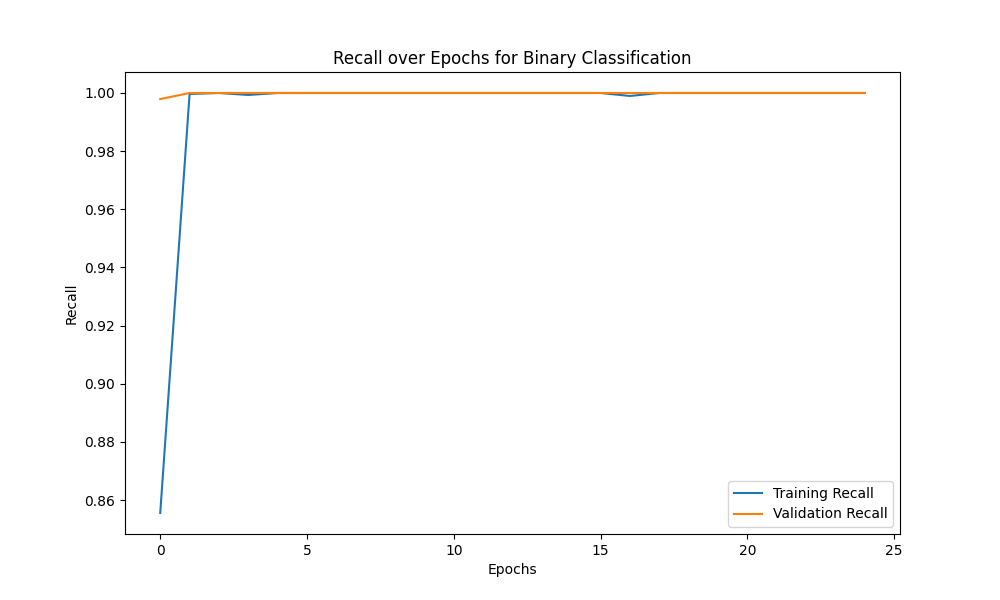
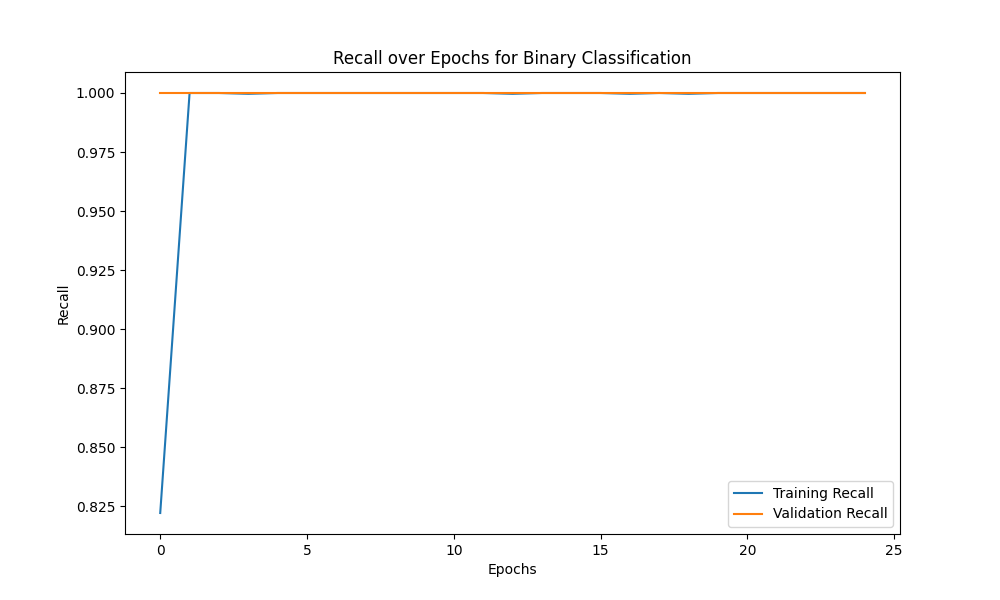
updated RNN layer to match input layer width

diff --git a/ML-SAST/mlsast/logic/steps/distance.py b/ML-SAST/mlsast/logic/steps/distance.py
@@ -172,7 +172,7 @@ class distance(AnalysisStep):
         # ])
 
         input_layer = Input(shape=(76, 1))
-        x = SimpleRNN(64, activation='relu', return_sequences=True)(input_layer)
+        x = SimpleRNN(76, activation='relu', return_sequences=True)(input_layer)
         # x = Dense(128, activation='relu')(input_layer)
         x = Dense(128, activation='relu')(x)
         x = Dropout(0.3)(x)
@@ -189,7 +189,7 @@ class distance(AnalysisStep):
         # model.fit(X_train, y_train, epochs=25, batch_size=64)
         history = model.fit(X_train, {'binary_output': y_train, 'cwe_output': labels_train},
                   validation_data=(X_val, {'binary_output': Y_val, 'cwe_output': labels_val}),
-                  epochs=100, batch_size=64)
+                  epochs=25, batch_size=64)
         scores = model.evaluate(X_test, {'binary_output': y_test, 'cwe_output': labels_test})
         # print(f"Model Training Accuracy: {scores[1]*100:.2f}%", file=file)
         print("SCORES", file=file)
@@ -319,7 +319,7 @@ class distance(AnalysisStep):
         # Display the detailed metrics DataFrame
         print("PER CLASS METRICS", file=file)
         print(detailed_metrics_df, file=file)
-        detailed_metrics_df.to_csv('RNN_per_class_metrics_100epoch.csv')
+        detailed_metrics_df.to_csv('RNN_per_class_metrics.csv')
         file.close()
 
         # Plot recall for binary classification and save as PNG
@@ -330,7 +330,7 @@ class distance(AnalysisStep):
         plt.ylabel('Recall')
         plt.title('Recall over Epochs for Binary Classification')
         plt.legend()
-        plt.savefig('binary_classification_recall_100epoch.png')  # Save the plot as a PNG file
+        plt.savefig('binary_classification_recall.png')  # Save the plot as a PNG file
         plt.close()  # Close the plot to free up memory
 
         # Plot recall for multi-class classification (CWE) and save as PNG
@@ -341,7 +341,7 @@ class distance(AnalysisStep):
         plt.ylabel('Recall')
         plt.title('Recall over Epochs for Multi-Class Classification (CWE)')
         plt.legend()
-        plt.savefig('multi_class_classification_recall_100epoch.png')  # Save the plot as a PNG file
+        plt.savefig('multi_class_classification_recall.png')  # Save the plot as a PNG file
         plt.close()  # Close the plot to free up memory
 
         # Compute ROC curve and AUC for binary classification
@@ -358,7 +358,7 @@ class distance(AnalysisStep):
         plt.ylabel('True Positive Rate')
         plt.title('Receiver Operating Characteristic for Binary Classification')
         plt.legend(loc="lower right")
-        plt.savefig('binary_classification_roc_100epoch.png')
+        plt.savefig('binary_classification_roc.png')
         plt.close()
 
 
